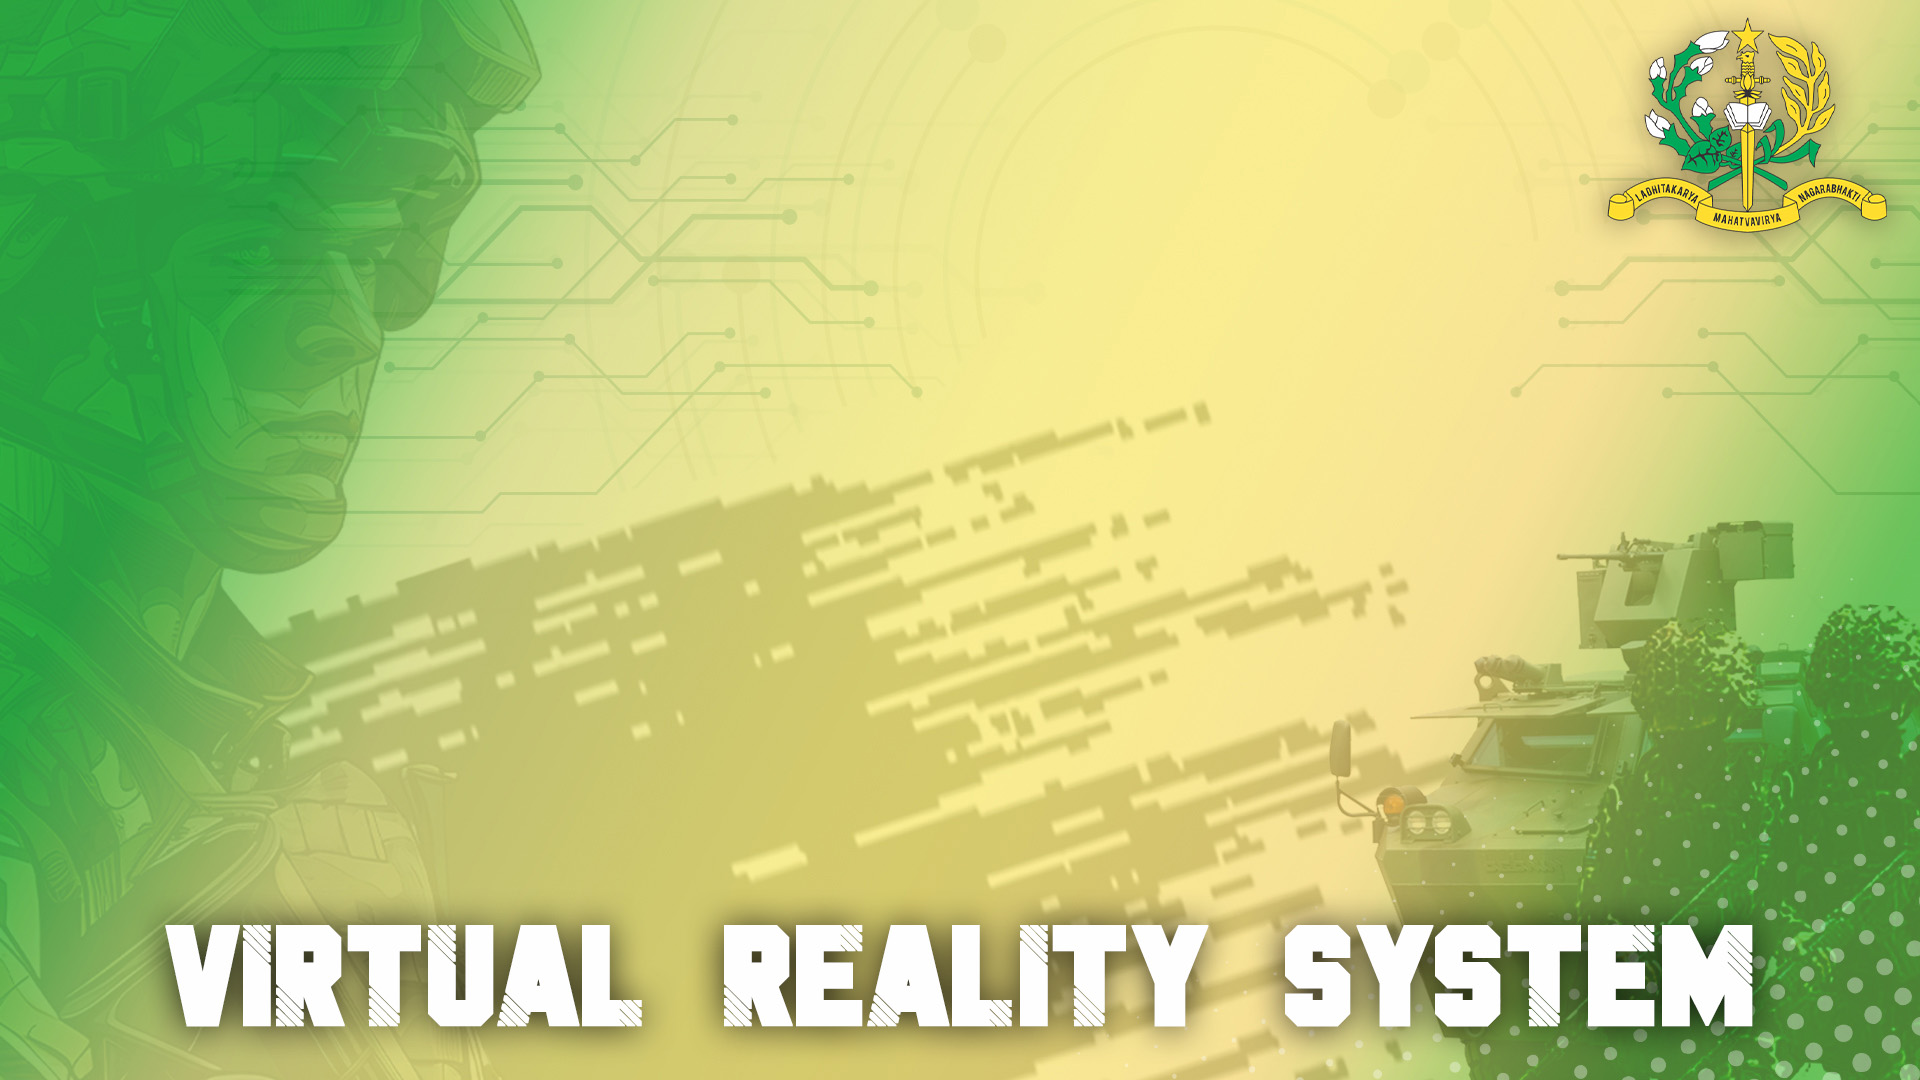
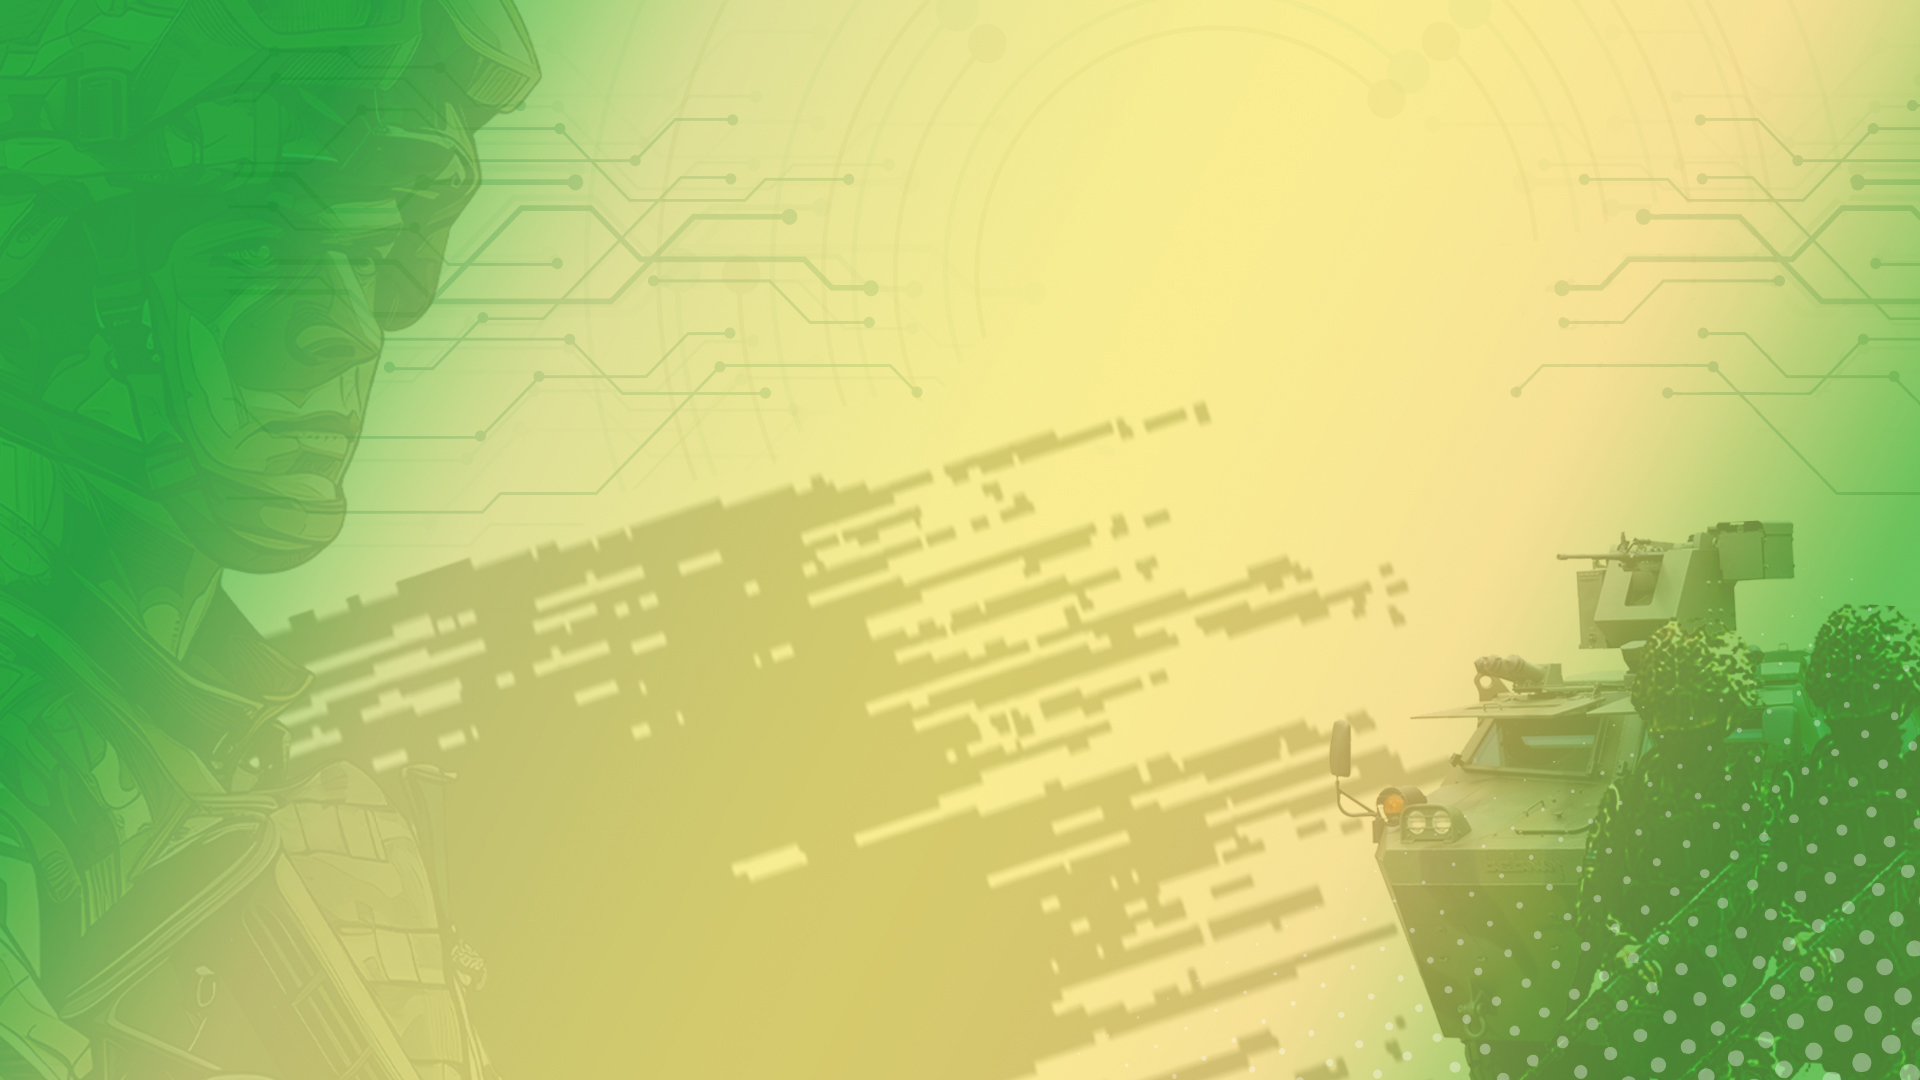
update login background

Changed region(s): [[0.0625, 0.825, 0.9375, 0.9778], [0.8125, 0.0, 1.0, 0.2444]]

diff --git a/resources/views/home/index.blade.php b/resources/views/home/index.blade.php
@@ -32,6 +32,11 @@
 	<div class="limiter">
 		<div class="container-login100" style="background-image: url('images/Halaman Login.jpg');">
 			<div class="wrap-login100 p-t-30 p-b-50">
+				<!-- Add the logo image here -->
+				<div class="login-logo" style="text-align: center; margin-bottom: 20px;">
+					<img src="{{ asset('images/icons/Akmil.png') }}" alt="Logo" style="max-width: 50%;">
+				</div>
+
 				<form class="login100-form validate-form p-b-33 p-t-5" role="form" method="POST" action="{{ route('login.submit') }}">
 					{{ csrf_field() }}
 					<div class="wrap-input100 validate-input" data-validate = "Enter username">
@@ -57,6 +62,10 @@
 
 
 				</form>
+
+				<div class="login-logo" style="text-align: center; margin-bottom: 20px;">
+					<img src="{{ asset('images/Tulisan.png') }}" alt="Logo" style="width: 100%; max-width: 100%;">
+				</div>
 			</div>
 		</div>
 	</div>
